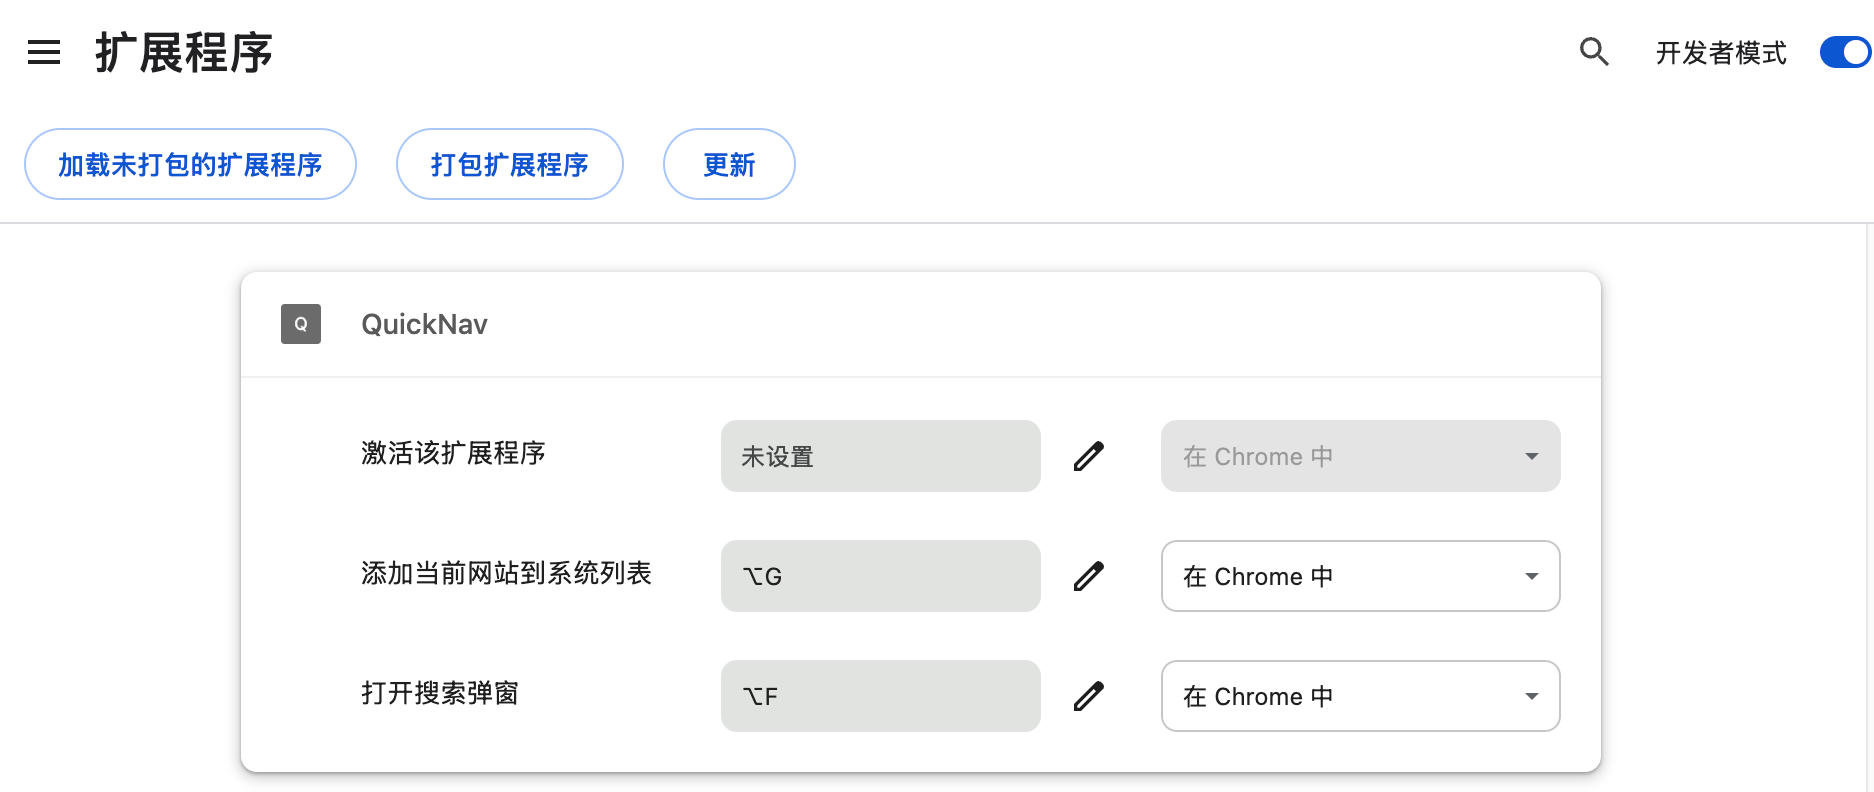
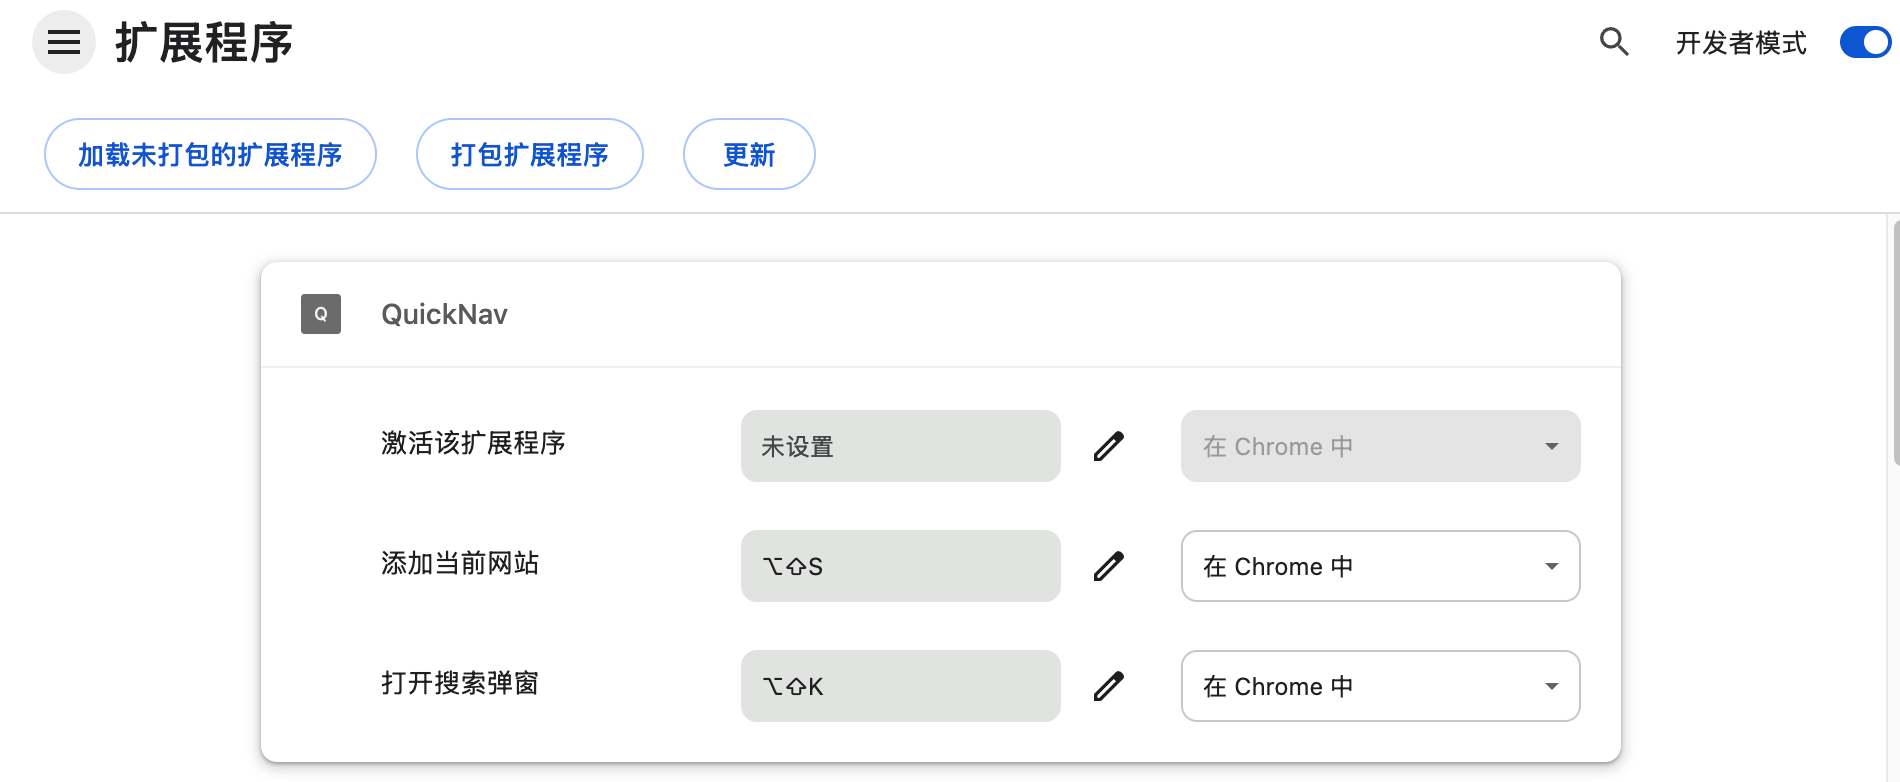
feat(shortcuts): set toggle-search default to Alt+Shift+K across all platforms\n\nfix(shortcuts): ensure add-current-site works on first use by loading hidden iframe from src/popup/popup.html\nfix(shortcuts): specify windows/linux/mac suggested_key to avoid blank defaults on Chrome shortcuts page\n\

diff --git a/src/content/content.js b/src/content/content.js
@@ -168,7 +168,7 @@ function ensureIframeLoadedThen(action) {
       try { iframe.remove(); } catch (e) {}
       iframe = null;
     };
-    iframe.src = chrome.runtime.getURL('popup.html') + '?t=' + new Date().getTime();
+    iframe.src = chrome.runtime.getURL('src/popup/popup.html') + '?t=' + new Date().getTime();
     document.body.appendChild(iframe);
   } catch (e) {
     isLoading = false;

diff --git a/README_EN.md b/README_EN.md
@@ -2,7 +2,7 @@
 
 <div align="center">
 
-![Version](https://img.shields.io/badge/version-1.0.0-blue.svg)
+![Version](https://img.shields.io/badge/version-1.0.1-blue.svg)
 ![License](https://img.shields.io/badge/license-MIT-green.svg)
 ![Chrome](https://img.shields.io/badge/chrome-v88%2B-brightgreen.svg)
 ![Manifest](https://img.shields.io/badge/manifest-v3-orange.svg)
@@ -58,10 +58,10 @@ English | [简体中文](./README.md)
 
 ## Key Features
 
-- 🚀 Quick Access: Quickly open search interface with hotkey (Ctrl+Shift+F)
+- 🚀 Quick Access: Quickly open search interface with hotkey (Alt+Shift+K / Mac: Option+Shift+K)
 - 🔍 Smart Search: Support system name and pinyin abbreviation search, Tab key to quickly switch search sources
 - 📑 Multi-Source Search: Search systems, bookmarks, tabs, and history
-- ➕ Quick Add: One-click add current website (Ctrl+Shift+S) or click the "+" button
+- ➕ Quick Add: One-click add current website (Alt+Shift+S / Mac: Option+Shift+S) or click the "+" button
 - 🗑 Easy Management: Intuitive system deletion with confirmation mechanism
 - 💡 Smart Hints: Clear operation feedback for smooth experience
 - 🎯 Precise Navigation: Keyboard navigation and quick jump support, number keys 1-5 for quick selection
@@ -83,14 +83,14 @@ English | [简体中文](./README.md)
 1. **Quick Access**
    - Access the plugin by:
      - Click the plugin icon in the browser toolbar to open search interface
-     - Press Ctrl+Shift+F (Windows) or Command+Shift+F (Mac) to open search interface
+     - Press Alt+Shift+K (Windows/Linux) or Option+Shift+K (Mac) to open search interface
    - Enter system name or pinyin abbreviation to search
    - Search results display the first 5 items by default, use left/right keys to switch pages
    - Use arrow keys to select results, or press number keys 1-5 to quickly select corresponding items, press Enter to open selected item
 
 2. **Add System**
    - Visit the website you want to add
-   - Press hotkey Ctrl+Shift+S (Mac: Command+Shift+S) for quick add
+   - Press hotkey Alt+Shift+S (Mac: Option+Shift+S) for quick add
    - Or open the plugin and click the "+" button in the lower left corner to add current website
    - The system will automatically get the website title and URL, and generate pinyin abbreviation
 
@@ -116,8 +116,8 @@ The plugin supports four search modes, switchable via dropdown menu or Tab key:
 
 ### Keyboard Shortcuts
 
-- **Ctrl+Shift+F** / **Command+Shift+F**: Open search interface
-- **Ctrl+Shift+S** / **Command+Shift+S**: Add current website to system list
+- **Alt+Shift+K** (Windows/Linux) / **Option+Shift+K** (Mac): Open search interface
+- **Alt+Shift+S** / **Option+Shift+S**: Add current website to system list
 - **↑/↓**: Navigate through search results
 - **←/→**: Switch search result pages
 - **1/2/3/4/5**: Quickly select search result by number

diff --git a/README.md b/README.md
@@ -2,7 +2,7 @@
 
 <div align="center">
 
-![Version](https://img.shields.io/badge/version-1.0.0-blue.svg)
+![Version](https://img.shields.io/badge/version-1.0.1-blue.svg)
 ![License](https://img.shields.io/badge/license-MIT-green.svg)
 ![Chrome](https://img.shields.io/badge/chrome-v88%2B-brightgreen.svg)
 ![Manifest](https://img.shields.io/badge/manifest-v3-orange.svg)
@@ -58,10 +58,10 @@
 
 ## 主要特性
 
-- 🚀 快速访问：通过快捷键（Ctrl+Shift+F）快速唤起搜索界面
+- 🚀 快速访问：通过快捷键（Alt+Shift+K / Mac: Option+Shift+K）快速唤起搜索界面
 - 🔍 智能搜索：支持系统名称和拼音缩写搜索，Tab键快速切换搜索源
 - 📑 多源搜索：支持搜索系统、书签、标签页和历史记录
-- ➕ 快速添加：一键添加当前网站（Ctrl+Shift+S）或点击界面"+"按钮
+- ➕ 快速添加：一键添加当前网站（Alt+Shift+S / Mac: Option+Shift+S）或点击界面"+"按钮
 - 🗑 便捷管理：直观的系统删除和确认机制
 - 💡 智能提示：操作反馈清晰，使用体验流畅
 - 🎯 精准定位：支持键盘导航和快速跳转，数字键1-5快速选择结果
@@ -83,14 +83,14 @@
 1. 快速访问
    - 通过以下方式唤起插件：  
       - 在浏览器右上角点击插件图标唤起搜索界面
-      - 按下 Ctrl+Shift+F（Windows）或 Command+Shift+F（Mac）唤起搜索界面
+      - 按下 Alt+Shift+K（Windows/Linux）或 Option+Shift+K（Mac）唤起搜索界面
    - 输入系统名称或拼音缩写进行搜索
    - 搜索结果默认显示前5条，可通过左右键切换分页
    - 使用方向键选择结果，或按数字键1-5快速选中对应项，Enter键打开选中项
 
 2. 添加系统
    - 访问想要添加的网站
-   - 按快捷键 Ctrl+Shift+S（Mac: Command+Shift+S）快速添加
+   - 按快捷键 Alt+Shift+S（Mac: Option+Shift+S）快速添加
    - 或者打开插件，点击左下角"+"按钮添加当前网站
    - 系统会自动获取网站标题和URL，并生成拼音缩写
 
@@ -116,8 +116,8 @@
 
 ### 键盘快捷键
 
-- **Ctrl+Shift+F** / **Command+Shift+F**：打开搜索界面
-- **Ctrl+Shift+S** / **Command+Shift+S**：添加当前网站到系统列表
+- **Alt+Shift+K**（Windows/Linux） / **Option+Shift+K**（Mac）：打开搜索界面
+- **Alt+Shift+S** / **Option+Shift+S**：添加当前网站到系统列表
 - **↑/↓**：在搜索结果中导航
 - **←/→**：切换搜索结果分页
 - **1/2/3/4/5**：快速选中对应序号的搜索结果

diff --git a/INTRODUCTION.md b/INTRODUCTION.md
@@ -1,0 +1,52 @@
+# QuickNav：写给浏览器重度用户的导航插件
+
+## 先说痛点
+
+如果你也是那种浏览器里常年开着几十个标签页的人，你一定懂这些痛苦：
+
+- 想找某个常用的内部系统，得在书签栏里翻半天
+- 标签页太多了，找个刚才看的页面要一个个点过去
+- 经常访问的网站每次都要输入一长串网址，或者记不住具体链接
+- 公司的各种后台系统名字都差不多，OA、CRM、ERP... 傻傻分不清楚
+
+我自己就经常遇到这种情况：想打开某个测试环境，但是忘记具体地址了，只能去找同事要链接，或者翻聊天记录。有时候一天要重复好几次这种操作，真的挺浪费时间。
+
+## 所以做了这个插件
+
+QuickNav 就是为了解决这些问题。核心功能很简单：**按个快捷键，搜索你要的网站，回车打开**。
+
+具体来说：
+
+**1. 自己管理常用网站**
+- 把工作中常用的系统都加进来，给它们起个好记的名字
+- 支持拼音搜索，比如输入"cs"就能找到"测试环境"
+- 还可以给系统配个密码，打开的时候自动复制到剪贴板，省得再去找密码本
+
+**2. 搜索不止是自定义的**
+按 Tab 键可以切换搜索源：
+- 搜书签
+- 搜当前打开的标签页
+- 搜历史记录
+
+这样基本上覆盖了日常使用的各种场景。
+
+**3. 操作够快**
+- `Alt+Shift+K`（Mac: `Option+Shift+K`）唤起搜索框
+- 输入关键词，方向键选择，回车打开
+- 或者直接按数字键 1-5 选中对应结果
+- 想添加当前网站？`Alt+Shift+S` 一键搞定
+
+**4. 可选的 LLM 加持**
+如果你嫌手动起名字麻烦，可以配置个 LLM（OpenAI、智谱之类的），让它根据网页内容自动生成简洁的名称。这个功能是可选的，不用也完全没问题。
+
+## 写在最后
+
+这个插件没有太复杂的功能，就是想让"打开一个网页"这件事变得更快更直接。代码全部开源，数据都存在本地，不会上传到任何地方。
+
+如果你也有类似的困扰，可以试试看。有问题或者建议，欢迎提 Issue。
+
+项目地址：[GitHub](https://github.com/yourname/QuickNav)
+
+---
+
+MIT License | 觉得有用的话给个 Star 吧 ⭐
